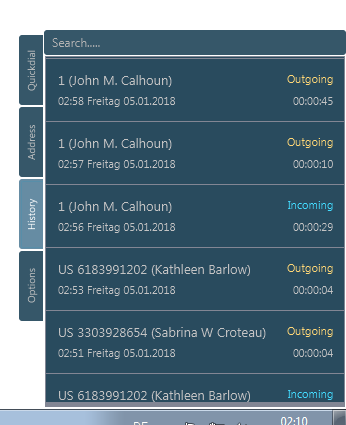
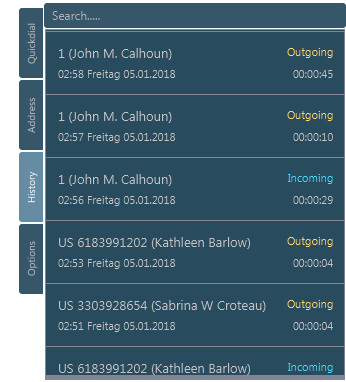
Changed name, added offset for non windows Systems, language level 9

diff --git a/src/main/java/com/citos/client/MainApp.java b/src/main/java/com/citos/client/MainApp.java
@@ -52,7 +52,7 @@ public class MainApp extends Application implements NativeKeyListener {
         Font.loadFont(MainApp.class.getResource("/styles/Roboto-Light.ttf").toExternalForm(),13);
 
         scene.getStylesheets().add("/styles/Styles.css");
-        stage.setTitle("JavaFX and Maven");
+        stage.setTitle("Citel Manager");
 
         stage.initStyle(StageStyle.TRANSPARENT);
         scene.setFill(javafx.scene.paint.Color.TRANSPARENT);
@@ -61,7 +61,9 @@ public class MainApp extends Application implements NativeKeyListener {
         Rectangle2D primaryScreenBounds = Screen.getPrimary().getVisualBounds();
         stage.show();
         stage.setX(primaryScreenBounds.getWidth() - scene.getWidth());
-        stage.setY(primaryScreenBounds.getHeight() - scene.getHeight());
+        String os = System.getProperty("os.name");
+        int offset = os.startsWith("Windows") ? 0 : 50;
+        stage.setY(primaryScreenBounds.getHeight() - scene.getHeight() +offset);
 
         stage.getIcons().add(new Image("/pics/easy_cti_logo_round.png"));
 
